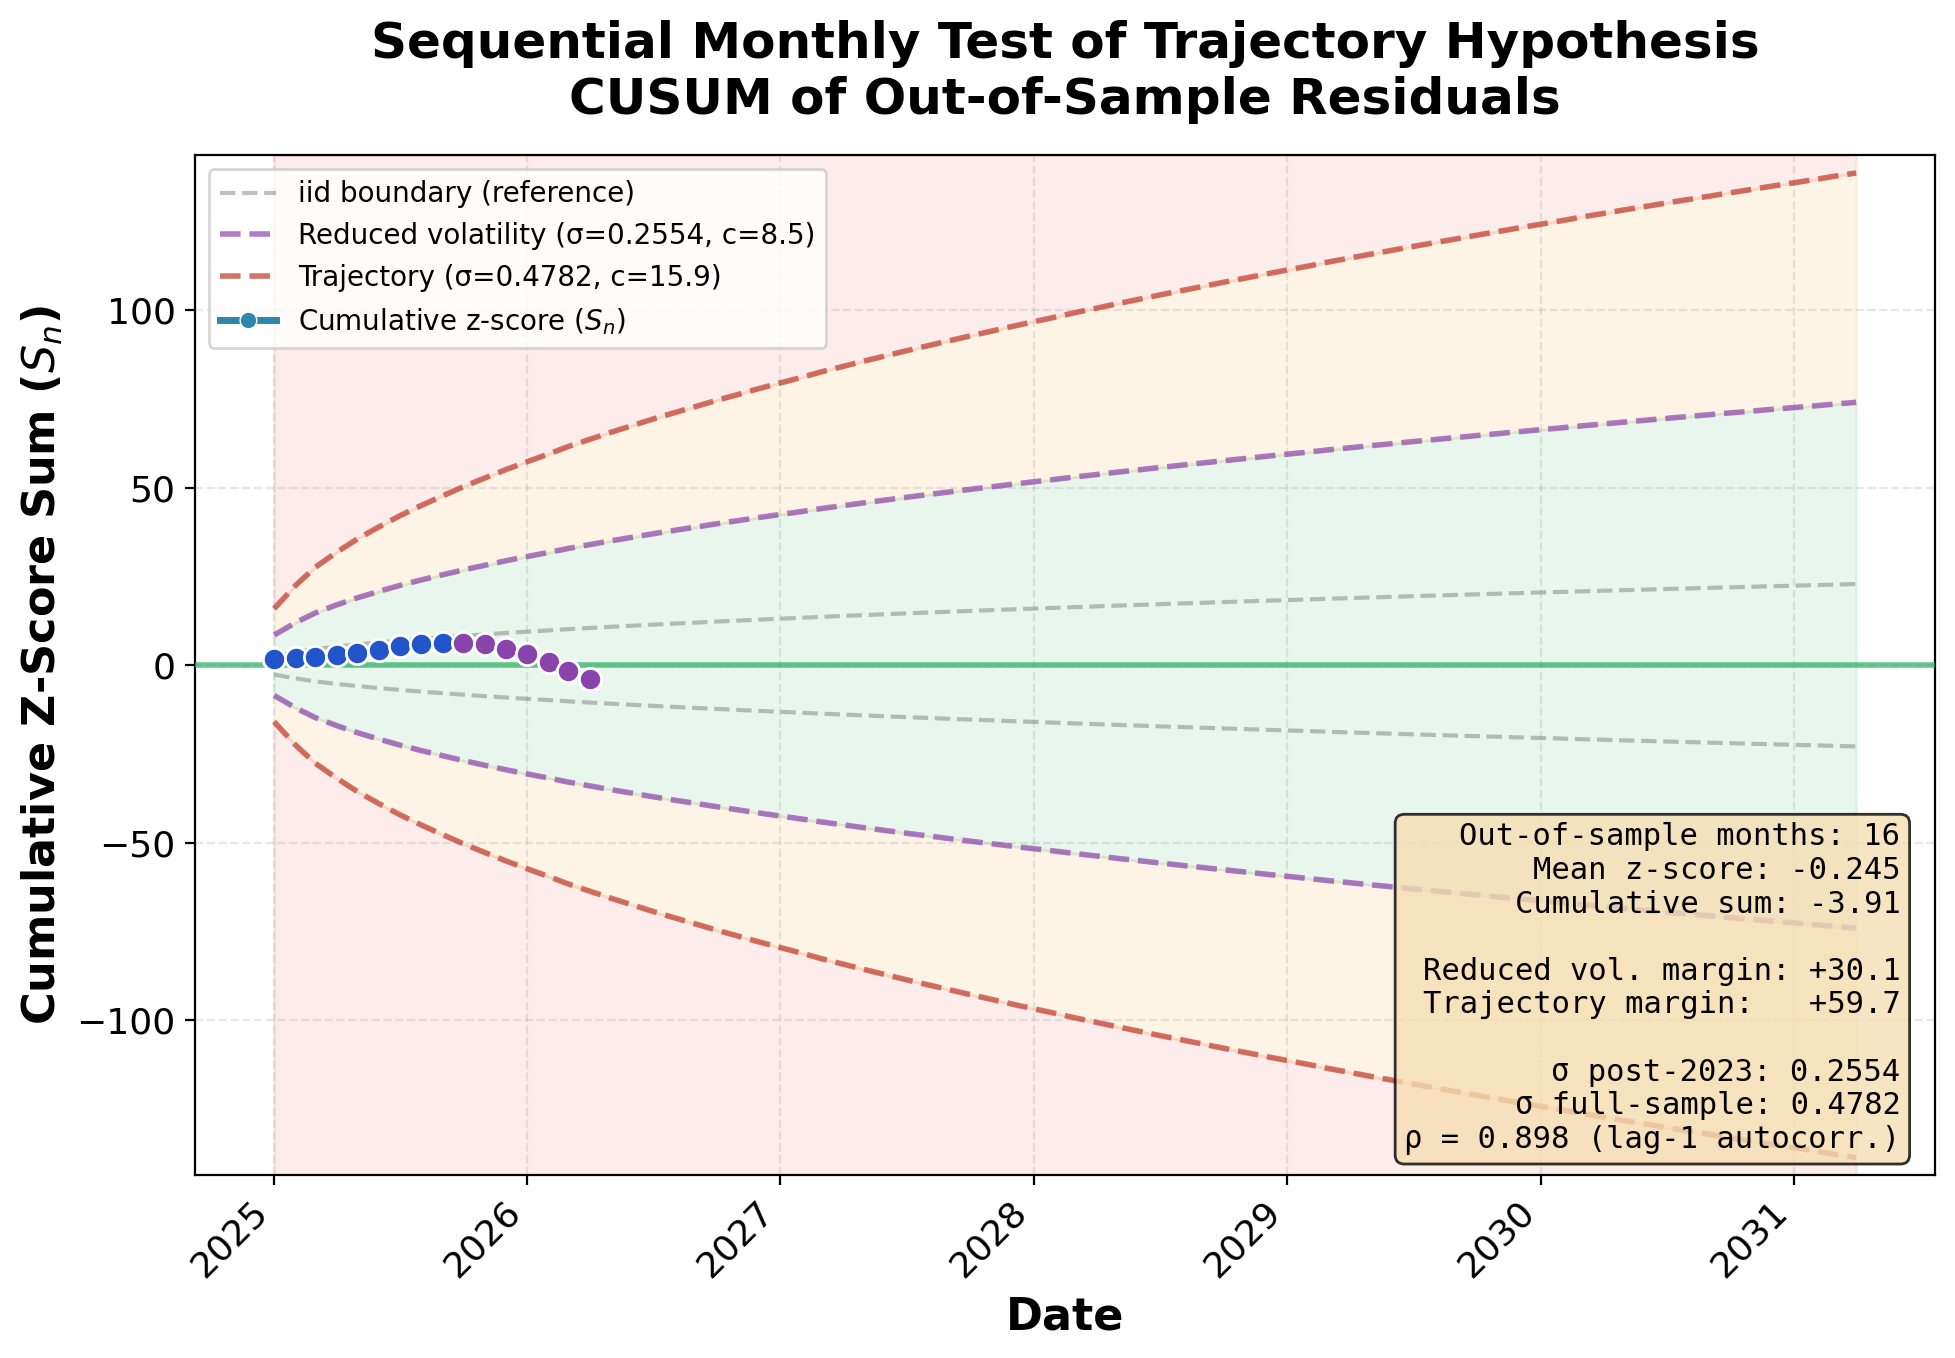
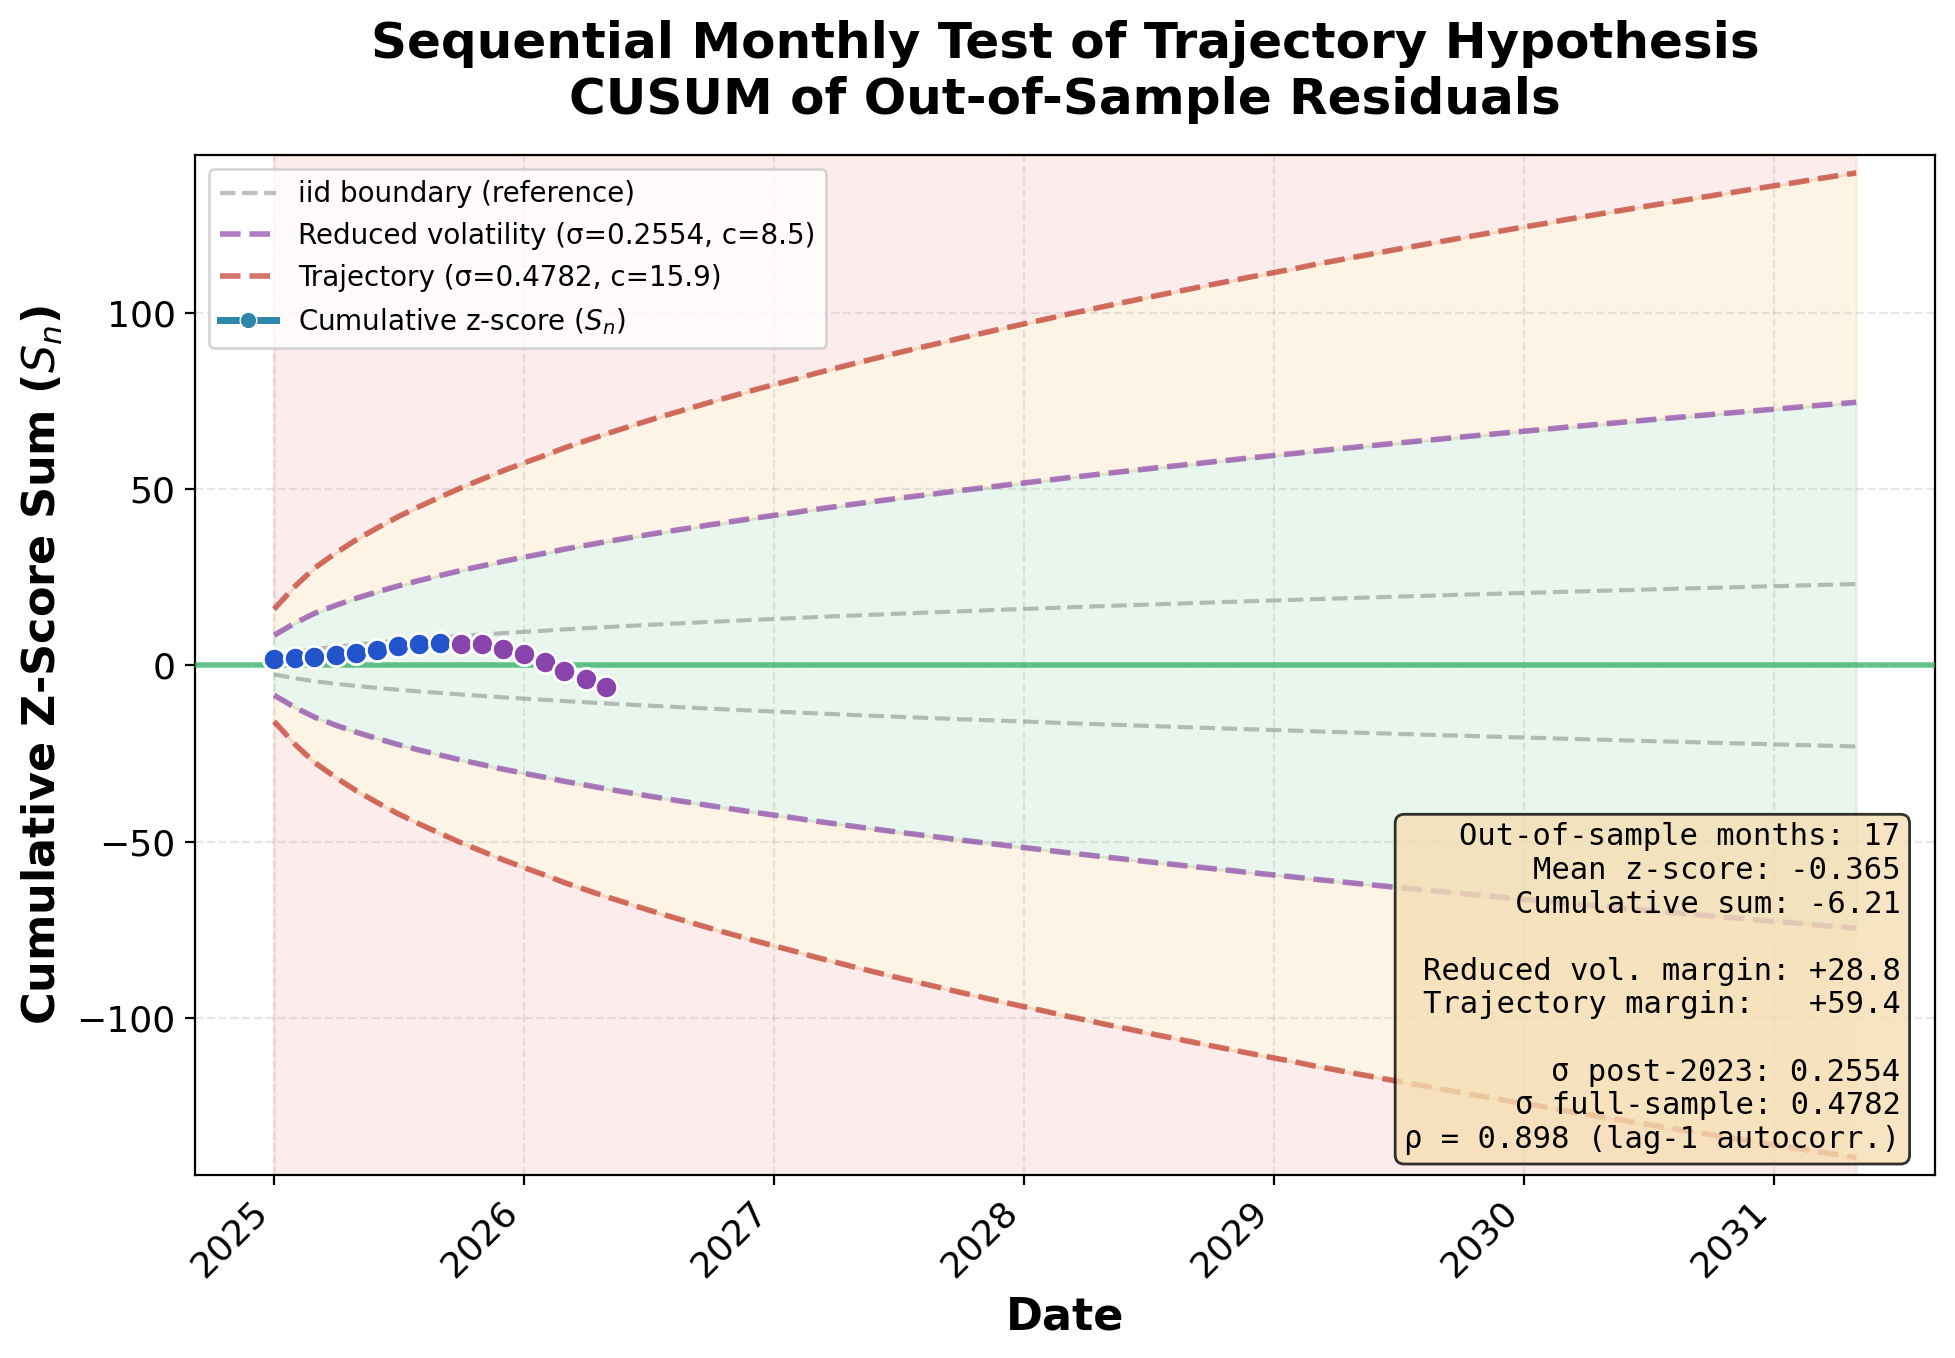
Update dashboard 2026-06-01

diff --git a/index.html b/index.html
@@ -35,11 +35,11 @@
 
 <h1>Bitcoin's Gold Price</h1>
 
-<img src="dashboard_ratio.png?v=1780265208" alt="Bitcoin priced in ounces of gold">
+<img src="dashboard_ratio.png?v=1780272700" alt="Bitcoin priced in ounces of gold">
 
 <table class="price-table">
   <tr><th>Gold (USD/oz), COMEX</th><th>Bitcoin (USD)</th><th>Bitcoin's Gold Price</th><th>Date</th><th>Updated</th></tr>
-  <tr><td>$4,593</td><td>$73,373</td><td>16.0 oz</td><td>2026-05-29</td><td>2026-05-31 22:06 UTC</td></tr>
+  <tr><td>$4,560</td><td>$73,373</td><td>16.1 oz</td><td>2026-05-29</td><td>2026-06-01 00:11 UTC</td></tr>
 </table>
 
 
@@ -57,15 +57,15 @@
 <h2>Live Model Scorecard</h2>
 <table>
   <tr><th>Metric</th><th>Value</th></tr>
-  <tr><td>Out-of-sample months</td><td>16</td></tr>
-  <tr><td>Latest monthly z-score</td><td>-2.19</td></tr>
-  <tr><td>Cumulative sum (S<sub>n</sub>)</td><td>-3.91</td></tr>
-  <tr><td>Reduced volatility margin</td><td>+30.1</td></tr>
-  <tr><td>Trajectory margin</td><td>+59.7</td></tr>
+  <tr><td>Out-of-sample months</td><td>17</td></tr>
+  <tr><td>Latest monthly z-score</td><td>-2.30</td></tr>
+  <tr><td>Cumulative sum (S<sub>n</sub>)</td><td>-6.21</td></tr>
+  <tr><td>Reduced volatility margin</td><td>+28.8</td></tr>
+  <tr><td>Trajectory margin</td><td>+59.4</td></tr>
   <tr><td>Status</td><td class="status">Green &mdash; Both hypotheses supported</td></tr>
 </table>
 
-<img src="dashboard_cusum.png?v=1780265208" alt="CUSUM scorecard with rejection boundaries">
+<img src="dashboard_cusum.png?v=1780272700" alt="CUSUM scorecard with rejection boundaries">
 
 <details>
 <summary><strong>Zone definitions</strong></summary>
@@ -87,7 +87,7 @@
 </details>
 
 <div class="footer">
-  <p>Last updated: 2026-05-31 22:06 UTC</p>
+  <p>Last updated: 2026-06-01 00:11 UTC</p>
   <p>Data: BTC-USD and Gold futures (closing prices) via Yahoo Finance.</p>
   <p><a href="bitcoin_gold_biggs.pdf">Paper (PDF)</a> |
      <a href="bitcoin_gold_Biggs_(20260127).html">Paper (HTML)</a> |
